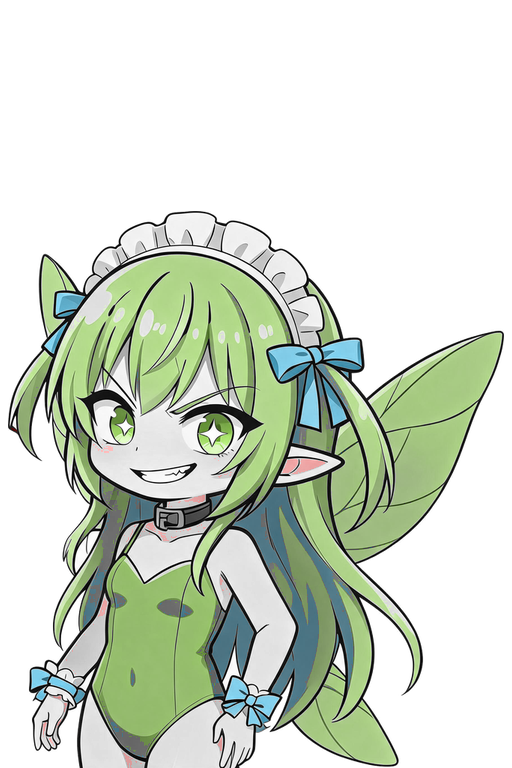
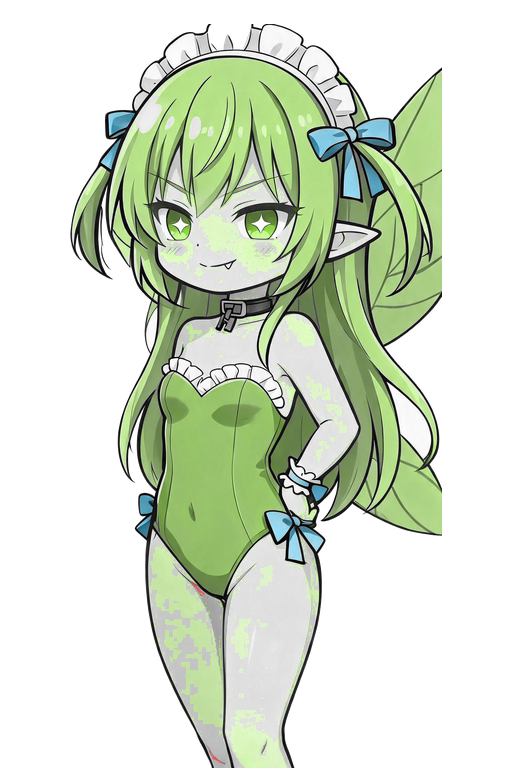
art: 玛丽苏补齐调戏/得逞/星芒瞳三套表情，剧情表情映射还原

diff --git a/src/story.js b/src/story.js
@@ -242,7 +242,7 @@ const STORY = {
       { t: 'say', who: 'marysue', expr: 'fake', show: true, text: '哎呀呀……' },
       { t: 'say', who: 'marysue', expr: 'mock', show: true, text: '真是难看呢。' },
       { t: 'say', who: 'marysue', expr: 'fake', show: true, text: '人家给你的舞台，可不是让你这样收场的哦。' },
-      { t: 'say', who: 'marysue', expr: 'creepy', show: true, text: '没用的孩子，是要被换掉的。' },
+      { t: 'say', who: 'marysue', expr: 'star', show: true, text: '没用的孩子，是要被换掉的。' },
 
       // 醒悟
       { t: 'say', who: '', text: '玛丽苏抬起手，绿色的东西在她掌心聚成一根针。' },
